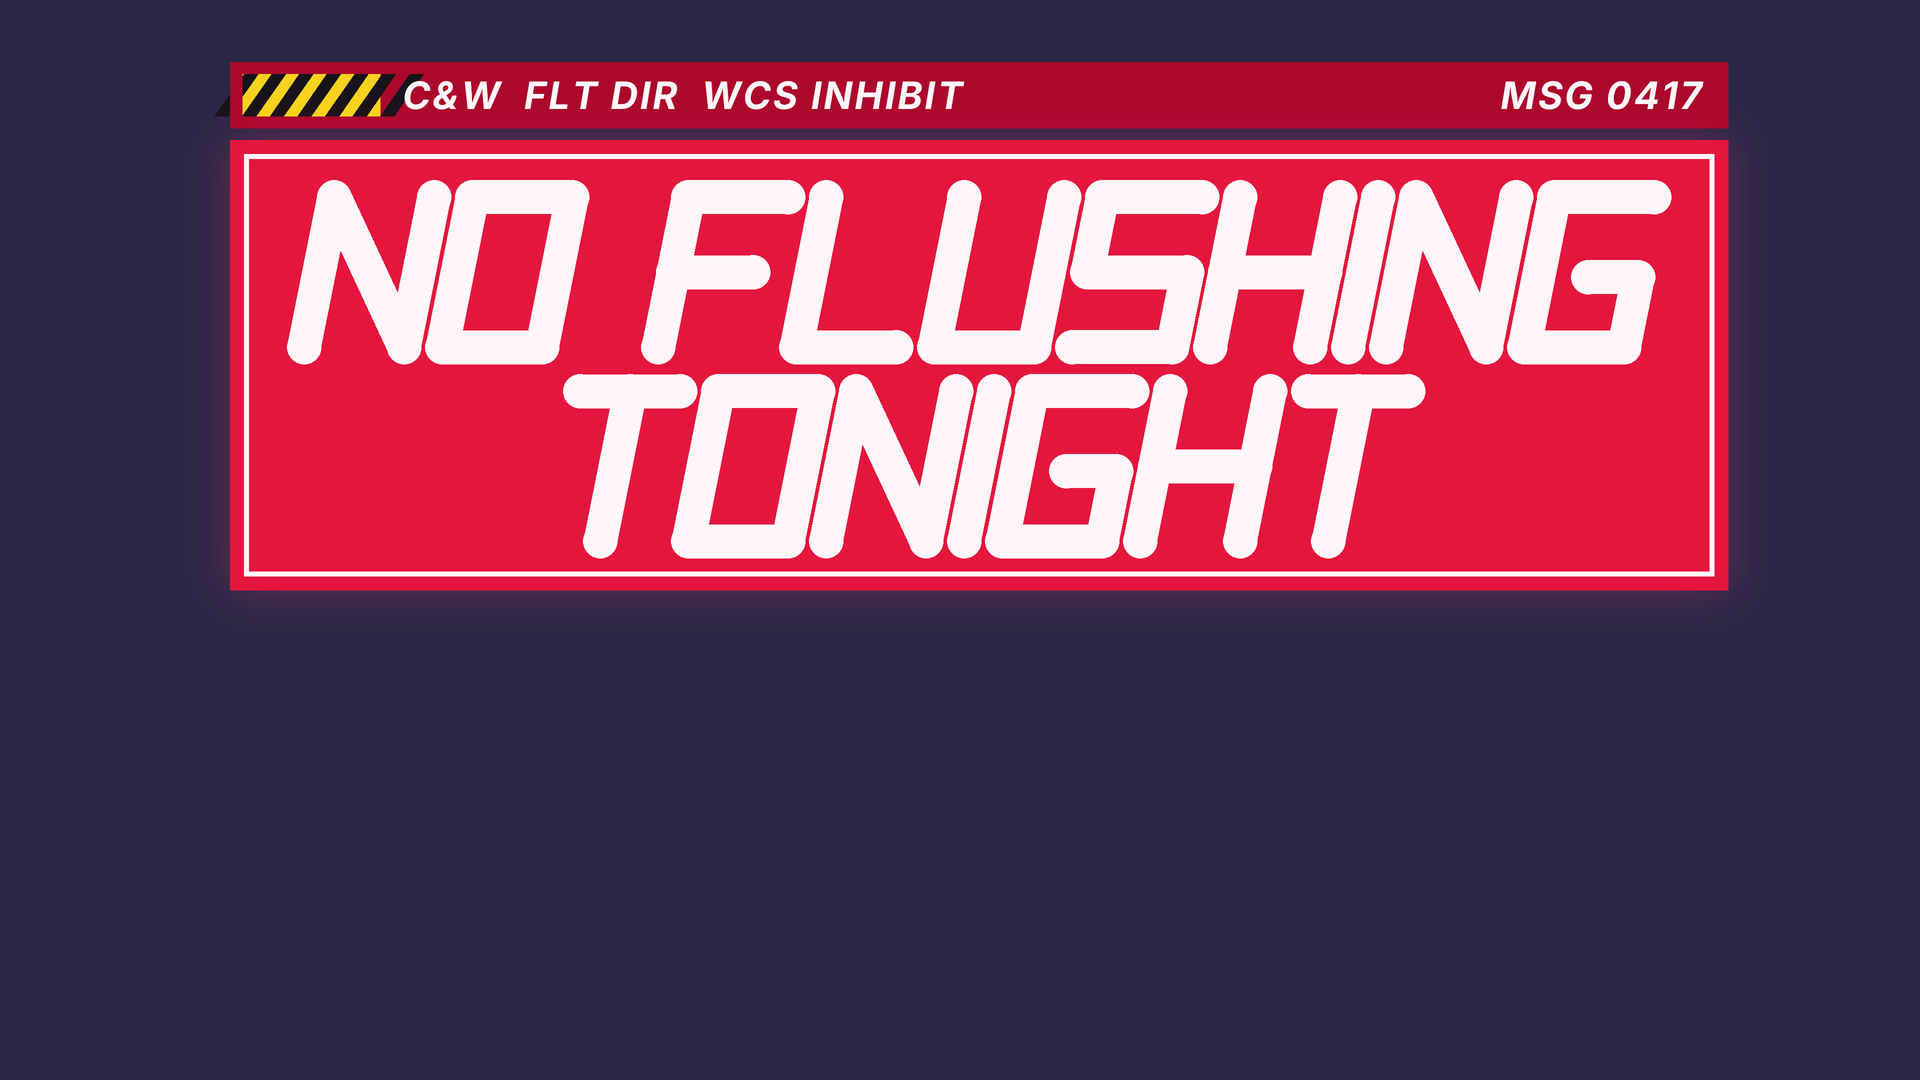
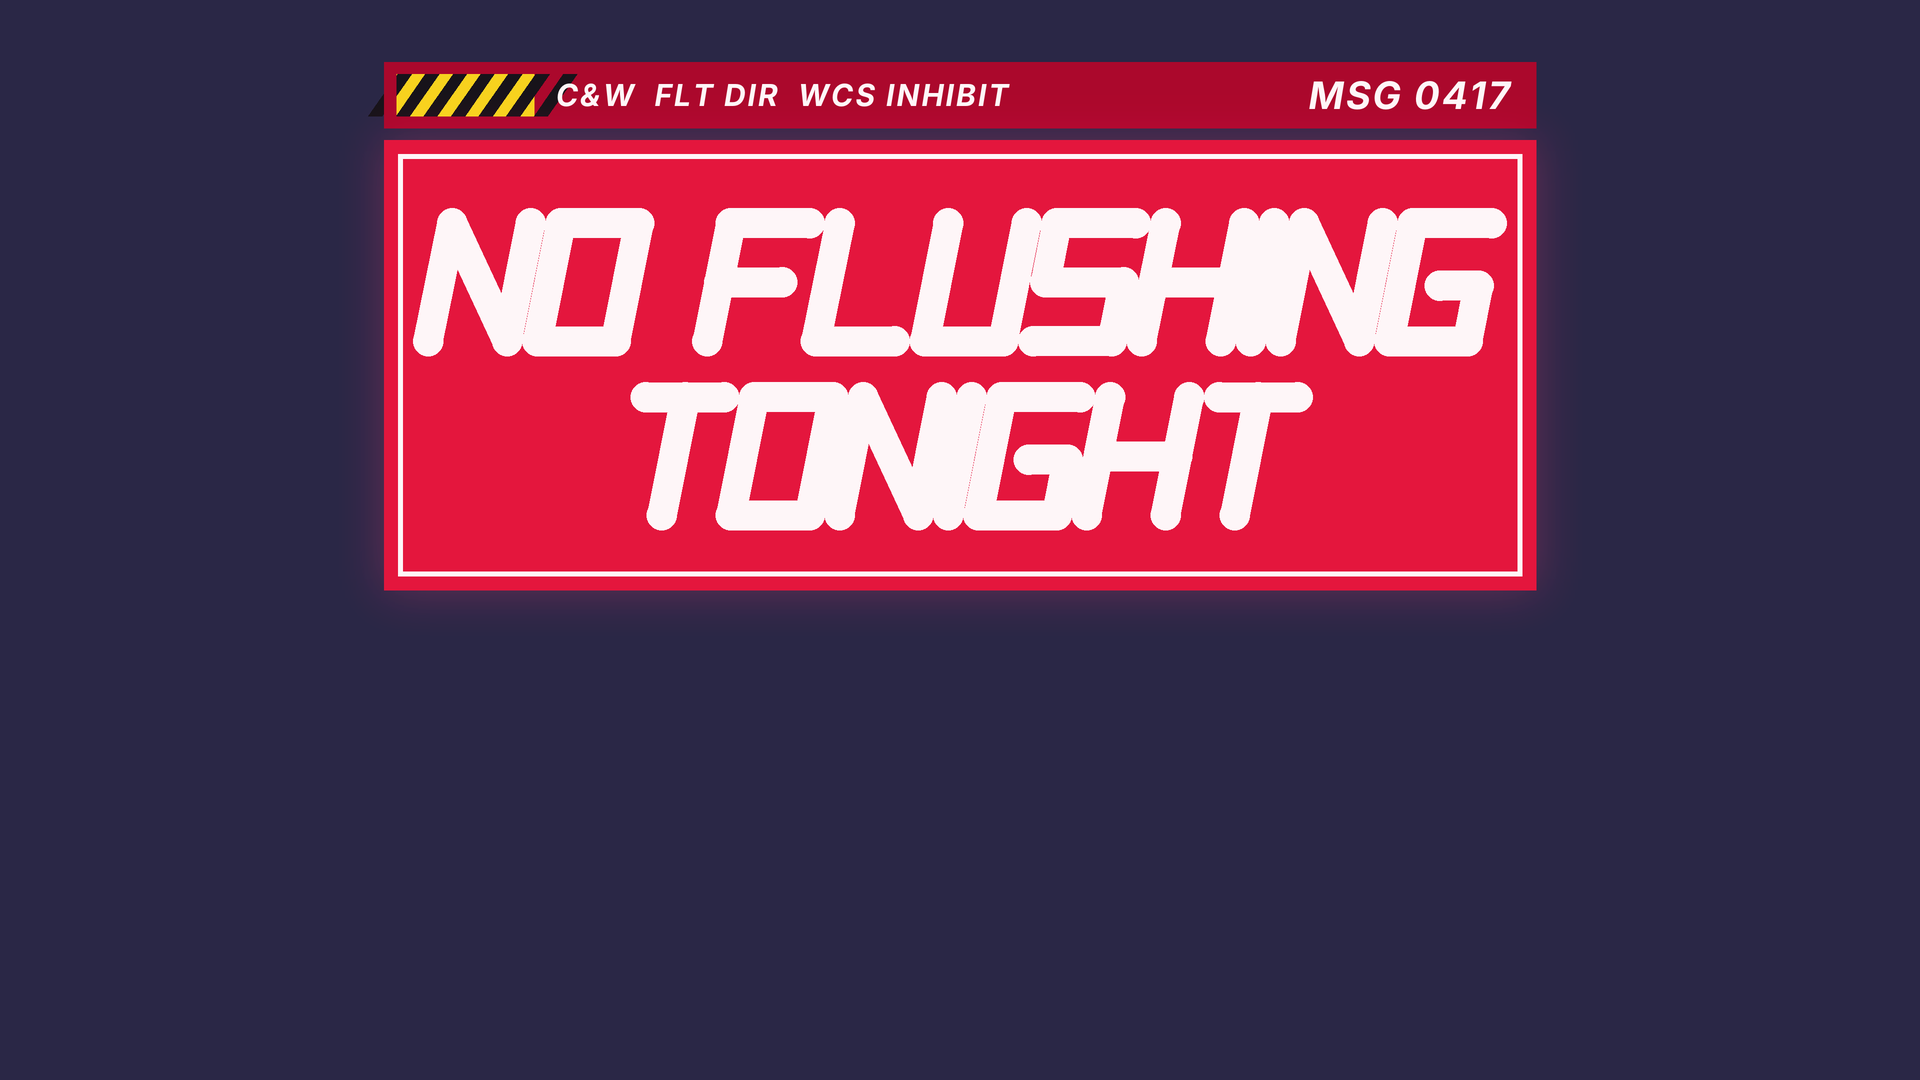
astro-flush-study: ship round 3 (camera fit tool, cloud shell, kit space light)
Claude-Session: https://claude.ai/code/session_01DrjR3HgxxDtMeg6KVkcCBa

Changed region(s): [[0.0938, 0.0306, 0.9062, 0.55]]

diff --git a/episodes/astro-flush-study/sets/ship.js b/episodes/astro-flush-study/sets/ship.js
@@ -37,7 +37,7 @@ export async function build(THREE, scene, film, ctx) {
       if (o.isDirectionalLight) { o.color.set('#ffffff'); o.intensity = 3.2; o.position.copy(ctx.B2T([.2, .5, .85]).multiplyScalar(60)); } });
   }
   const basic = (o, opt) => { if (o) o.traverse(m => { if (m.isMesh) m.material = new THREE.MeshBasicMaterial(Object.assign({ toneMapped: false, fog: false }, opt(m.material))); }); };
-  basic(N('sky_dome'), m => ({ map: m.map, side: THREE.BackSide }));
+  basic(N('sky_dome'), m => ({ map: m.map, side: THREE.DoubleSide }));
   basic(N('earth'), m => ({ map: m.map }));
   basic(N('earth_rim'), () => ({ color: '#bfeaff', transparent: true, opacity: .35, side: THREE.BackSide, depthWrite: false }));
   const ct = await new THREE.TextureLoader().loadAsync(DIR + 'cloud_tile_kit.png'); ct.wrapS = ct.wrapT = THREE.RepeatWrapping; ct.repeat.set(6, 3); ct.colorSpace = THREE.SRGBColorSpace;

diff --git a/episodes/astro-flush-study/sets/cabin/scripts/bl_cabin.py b/episodes/astro-flush-study/sets/cabin/scripts/bl_cabin.py
@@ -162,7 +162,7 @@ MON = dict(x=0., z=3.60, w=1.40, h=2.50)       # monitor outer frame (f330: 190 
 PICW, PICH = 1.26, 2.24                          # cabin_monitor_pic = 9:16 portrait
 HATCH = dict(x=1.95, z=1.68, w=.92, h=2.30, r=.42, t=.16)   # rounded-top hatch at the right edge of the back wall (f330 x 430-540 px)
 UP0 = RAIL_Z + .15
-panels('cabin_wall_upper', (CX1, WY, UP0), (-1, 0, 0), (0, 0, 1), CX1 - CX0, CTOP - UP0, [], pw=.85, ph=.62)
+panels('cabin_wall_upper', (CX1, WY, UP0), (-1, 0, 0), (0, 0, 1), CX1 - CX0, CTOP - UP0, [], pw=.85, ph=.62, g=.02)
 # quilted lower wall: diagonal diamond grid, each diamond padded (light centre, dark groove), a small button at the crossings
 QS = .19; bq, bbut = B(), B()
 qrows = int(QUILT_TOP / (QS / 2)) + 2; qcols = int((CX1 - CX0) / QS) + 2
@@ -185,7 +185,7 @@ box('cabin_rail_teal', (CX1 - CX0, .07, .14), ((CX0 + CX1) / 2, WY - .035, RAIL_
 box('cabin_rail_orange', (CX1 - CX0, .03, .022), ((CX0 + CX1) / 2, WY - .015, RAIL_Z + .135), mat('rail_orange', rough=.6), bev=0)
 # floor: light grey-beige rubber + regular dot grid (inventory 2 cm dots at 5 cm pitch, x 1.55)
 box('cabin_floor', (CX1 - CX0 + 1, WY + 7, .1), ((CX0 + CX1) / 2, WY - (WY + 7) / 2 + .0, -.05), mat('floor_rubber'), bev=0)
-dots('cabin_floor_dots', -2.7, 2.7, -2.4, WY, 0., .0775, .015, .004, mat('floor_dot'))
+dots('cabin_floor_dots', -3.0, 3.0, -2.6, WY, 0., .11, .03, .01, mat('floor_dot', rough=.7))
 # ceiling slopes at the top corners (A-shape seen at the top of f330) + 2 roof brace tubes from the upper corners toward the centre top
 bm = B()
 for s in (1, -1): abox(bm, 2.6, 7.5, .12, MT((s * 2.55, WY - 3.7, CTOP + .6), (0, s * 38, 0)), bev=0)
@@ -195,6 +195,9 @@ for s in (1, -1):
     atube(bm, [(s * 2.75, WY - .12, 4.55), (s * .7, WY - .12, 6.6)], .045, 12)
     for p in ((s * 2.75, WY - .06, 4.55),): abox(bm, .14, .1, .14, MT(p), bev=.015)
 obj('cabin_roof_braces', bm, mat('roof_brace', rough=.6), smooth=True)
+bm = B(); abox(bm, 8.4, 10.5, .2, MT((0, WY - 4.6, CTOP + 1.6)), bev=0)
+for s in (1, -1): abox(bm, .2, 10.5, CTOP + 1.8, MT((s * 3.45, WY - 4.6, (CTOP + 1.8) / 2)), bev=0)
+abox(bm, 8.4, .2, CTOP + 1.8, MT((0, WY - 9.8, (CTOP + 1.8) / 2)), bev=0); obj('cabin_shell', bm, mat('ceiling'))
 # wall monitor: dark frame, small camera on top centre, label plate under it, green LED bottom right, the picture plane fed by the stretch builder
 MY = WY - .045
 box('cabin_monitor_frame', (MON['w'], .09, MON['h']), (MON['x'], MY, MON['z']), mat('screen_frame', rough=.45), bev=.02)
@@ -226,11 +229,11 @@ def duffel(name, col, loc, L=.70, R=.23):
     return o
 duffel('cabin_bag_blue', 'bag_blue', (-1.43, WY - .22, 4.32)); duffel('cabin_bag_orange', 'bag_orange', (.88, WY - .24, 4.32)); duffel('cabin_bag_red', 'bag_red', (-2.35, WY - .22, 4.0))
 # galley table (left edge): black round top on one pole and disc foot, red bottle, yellow block, tray; grey box on a shelf; drawer block with 4 labels
-GX, GY = -1.6, .95
-bm = B(); acyl(bm, .45, .05, MT((0, 0, 1.24)), 32); acyl(bm, .035, 1.2, MT((0, 0, .62)), 12); acyl(bm, .26, .03, MT((0, 0, .015)), 24); obj('cabin_table', bm, mat('table_black', rough=.4), (GX, GY, 0), smooth=True)
-bm = B(); alathe(bm, [(.04, 0), (.045, .02), (.045, .16), (.02, .2), (.012, .25)], 12); obj('cabin_bottle', bm, mat('bottle_red', rough=.35), (GX + .25, GY - .12, 1.265), smooth=True)
-box('cabin_block', (.1, .08, .07), (GX + .05, GY - .2, 1.3), mat('block_yellow'), bev=.01)
-box('cabin_tray', (.3, .2, .02), (GX - .1, GY + .05, 1.275), mat('table_brown'), bev=.006)
+GX, GY = -1.75, .55; GT = 1.15
+bm = B(); acyl(bm, .45, .05, MT((0, 0, GT)), 32); acyl(bm, .035, GT - .04, MT((0, 0, GT / 2)), 12); acyl(bm, .26, .03, MT((0, 0, .015)), 24); obj('cabin_table', bm, mat('table_black', rough=.4), (GX, GY, 0), smooth=True)
+bm = B(); alathe(bm, [(.04, 0), (.045, .02), (.045, .16), (.02, .2), (.012, .25)], 12); obj('cabin_bottle', bm, mat('bottle_red', rough=.35), (GX + .25, GY - .12, GT + .025), smooth=True)
+box('cabin_block', (.1, .08, .07), (GX + .05, GY - .2, GT + .06), mat('block_yellow'), bev=.01)
+box('cabin_tray', (.3, .2, .02), (GX - .1, GY + .05, GT + .035), mat('table_brown'), bev=.006)
 box('cabin_shelf', (.8, .45, .05), (GX - .45, WY - .23, 1.6), mat('table_brown'), bev=.01)
 box('cabin_oven', (.55, .4, .35), (GX - .5, WY - .23, 1.8), mat('oven_grey', rough=.5), bev=.02)
 box('cabin_oven_door', (.36, .02, .22), (GX - .54, WY - .44, 1.8), mat('table_black', rough=.3), bev=.006)
@@ -289,7 +292,10 @@ def bag_parts(col, flat=1., open_=False):
     body, collar, head, strap, zipl = B(), B(), B(), B(), B()
     R = BAGW / 2; prof = [(R * .62, -BAGH), (R * .9, -BAGH + .12), (R, -BAGH + .45), (R * .98, -.55), (R * .9, -.32)]
     alathe(body, prof, 24, MT((0, -.2 * flat, 0)), ey=.42 * flat)
+    for v in body.verts:      # broad soft folds: a slow wave round the bag that drifts with height (no texture, geometry only)
+        k = 1 + .07 * math.sin(3 * math.atan2(v.co.x, v.co.y + .2 * flat) + 3.5 * v.co.z) + .04 * math.sin(5.5 * v.co.z); v.co.x *= k; v.co.y = -.2 * flat + (v.co.y + .2 * flat) * k
     alathe(collar, [(R * .9, -.33), (R * .96, -.29), (R * .96, -.2), (R * .88, -.16)], 24, MT((0, -.2 * flat, 0)), ey=.45 * flat)
+    alathe(zipl, [(R * .78, -.205), (R * .78, -.2)], 24, MT((0, -.2 * flat, 0)), ey=.38 * flat)   # the collar opening round the head: dark ellipse
     abox(head, .5, .1, .34, MT((0, -.07, -.05)), bev=.04)
     abox(strap, .52, .11, .04, MT((0, -.07, -.06)), bev=.005)
     for s in (1, -1): acyl(strap, .012, .12, MT((s * .2, -.03, .1)), 8)
@@ -297,7 +303,7 @@ def bag_parts(col, flat=1., open_=False):
     return body, collar, head, strap, zipl
 for n, (x, col) in BAGS.items():
     b, c_, h, s, z = bag_parts(col)
-    multi(n, [(b, mat(col, rough=.75)), (c_, mat(col + '_collar', col=PAL['bag_green_lining'] if col == 'bag_green' else PAL['headrest'], rough=.8)), (h, mat('headrest', rough=.8)),
+    multi(n, [(b, mat(col, rough=.75, emit=PAL['bag_green_rim'], es=.12) if col == 'bag_green' else mat(col, rough=.75)), (c_, mat(col + '_collar', col=PAL['bag_green_lining'] if col == 'bag_green' else PAL['headrest'], rough=.8)), (h, mat('headrest', rough=.8)),
               (s, mat('strap_black')), (z, mat('strap_black'))], (x, BY - .06, RZ + .02), smooth=True, mover={'sway_deg': 2.5})
 b, c_, h, s, z = bag_parts('bag_green', flat=.55, open_=True)
 fl = B(); R = BAGW / 2
@@ -383,10 +389,10 @@ def light(name, loc, col, watts, radius=.1, kind='POINT', aim=None, spot=None):
     return o
 # day: one hard key from the front, high, slightly right of the camera (shadows down-left on the quilt and the floor); a faint warm bounce
 light('key_day', (6.0, -6.0, 8.0), (1., .97, .92), 4.2, .6, 'SUN', aim=(0, 1.5, 0))
-light('fill_day', (0, -4.0, 3.0), (1., .9, .82), 120, 3., 'AREA', aim=(0, 1.5, 1.8))
+light('fill_day', (3.0, -3.0, 4.5), (1., .85, .7), 0, 2., 'AREA', aim=(0, 1.5, 1.2))
 # night: warm reading-light pools on the wall panels (one per panel column), cool glow under the skylights, front fill on the bags, end wall wash, floor light, toilet room lamp
 for k in range(6):
-    x = XL + .5 + k * .93; light('pool_%d' % (k + 1), (x, BY - .5, 3.7), (1., .62, .4), 0, .05, 'SPOT', aim=(x, BY, 2.95), spot=40)
+    x = XL + .5 + k * .93; light('pool_%d' % (k + 1), (x, BY - .5, 3.7), (1., .45, .15), 0, .05, 'SPOT', aim=(x, BY, 2.95), spot=40)
 for k, x in enumerate(SKY): light('sky_glow_%d' % (k + 1), (x, BY - 1.3, 4.2), (.25, .35, 1.), 0, 1., 'AREA', aim=(x, BY - 1.3, 0))
 light('bag_fill', (BX - .2, -3.0, 1.9), (.45, .55, 1.), 0, 2.5, 'AREA', aim=(BX - .2, BY, 1.5))
 light('end_wash', (EX - 2.6, -2.6, 2.6), (.2, .3, 1.), 0, 2., 'AREA', aim=(EX, -.6, 1.6))
@@ -396,7 +402,7 @@ w = bpy.data.worlds.new('cabin_world'); w.use_nodes = True; SC.world = w
 
 # ================================================================== META, RENDER SETTINGS, SAVE, GLB
 ANCH.update({'cabin_wall_centre': [0, WY, 0], 'monitor': [MON['x'], PIC_Y, MON['z'] + .02], 'head_sign': [1.58, WY, 3.35], 'hatch': [HATCH['x'], WY - .1, HATCH['z']],
-             'galley_table': [GX, GY, 1.24], 'commander_s4': [-1.05, .7, .75], 'newguy_s4': [0, .7, .5], 'navigator_s4': [1.22, .7, .85], 'newguy_s4_f300': [0, .1, .3],
+             'galley_table': [GX, GY, GT], 'commander_s4': [-1.05, .7, .75], 'newguy_s4': [0, .7, .5], 'navigator_s4': [1.22, .7, .85], 'newguy_s4_f300': [0, .1, .3],
              'bay_wall_centre': [BX, BY, 0], 'bag_navigator': [BAGS['bag_navigator'][0], BY - .06, RZ + .02], 'bag_commander': [BAGS['bag_commander'][0], BY - .06, RZ + .02],
              'bag_new_guy': [BAGS['bag_new_guy'][0], BY - .06, RZ + .02], 'bay_door': [EX, DOOR['y'], 0], 'bay_floor_light': [EX - .55, DOOR['y'] + .1, 0],
              'newguy_s5_bag': [BAGS['bag_new_guy'][0], BY - .32, .78], 'newguy_s5_door': [EX - 1.0, -.35, .55], 'toilet_room_beyond': [EX + 1.5, DOOR['y'], 0]})
@@ -425,7 +431,7 @@ META = {'place': 'cabin', 'units': 'Blender metres, Z up', 'rooms': {'D_cabin_da
 json.dump(META, open(os.path.join(OUT, 'cabin_meta.json'), 'w'), indent=1)
 SC.render.engine = 'CYCLES'; SC.cycles.samples = 16; SC.cycles.use_denoising = True; SC.view_settings.view_transform = 'Standard'; SC.view_settings.look = 'None'
 SC.render.resolution_x, SC.render.resolution_y = 540, 960; SC.cycles.max_bounces = 6
-for n in ('cabin_ceiling',): bpy.data.objects[n].visible_shadow = False
+for n in ('cabin_ceiling', 'cabin_shell'): bpy.data.objects[n].visible_shadow = False
 tris = sum(len(o.data.polygons) for o in SET.objects if o.type == 'MESH')
 for o in bpy.data.objects: o.select_set(False)
 for o in SET.objects: o.select_set(True)

diff --git a/episodes/astro-flush-study/sets/cabin/scripts/cabin_api.py b/episodes/astro-flush-study/sets/cabin/scripts/cabin_api.py
@@ -13,9 +13,9 @@ def _vis(n, on):
     if o: o.hide_render = o.hide_viewport = not on
 def _lerp(a, b, u): return [x + (y - x) * u for x, y in zip(a, b)]
 LIGHTS = {  # watts per light (sun: W/m2) and the world (colour, strength) for each kind
-    'day':   {'key_day': 4.0, 'world': ((.09, .06, .045), .05), 'bounces': 1},
-    'night': {'pool_1': 450, 'pool_2': 450, 'pool_3': 450, 'pool_4': 450, 'pool_5': 450, 'pool_6': 450, 'sky_glow_1': 25, 'sky_glow_2': 25, 'bag_fill': 70, 'end_wash': 110,
-              'floor_light_glow': 6, 'toilet_room_lamp': 120, 'world': ((.005, .008, .16), .5), 'bounces': 4},
+    'day':   {'key_day': 4.6, 'fill_day': 25, 'world': ((.09, .05, .03), .03), 'bounces': 0, 'head_glow': 0},
+    'night': {'pool_1': 1500, 'pool_2': 1500, 'pool_3': 1500, 'pool_4': 1500, 'pool_5': 1500, 'pool_6': 1500, 'sky_glow_1': 40, 'sky_glow_2': 40, 'bag_fill': 160, 'end_wash': 220,
+              'floor_light_glow': 6, 'toilet_room_lamp': 120, 'world': ((.005, .008, .16), .8), 'bounces': 4, 'head_glow': .9},
 }
 def set_light(scene, kind):
     L = LIGHTS[kind]
@@ -23,6 +23,8 @@ def set_light(scene, kind):
         if o.type != 'LIGHT': continue
         o.data.energy = L.get(o.name, 0); o.hide_render = o.hide_viewport = o.name not in L; o.visible_glossy = False
     scene.cycles.diffuse_bounces = L['bounces']   # day: 1 bounce keeps the hard shadows near black (shadow/lit 0.13 on the quilt, LOOK_INVENTORY D2)
+    m = bpy.data.materials.get('standin_head')     # night: the faces stay full-bright as his (a small self-light on the stand-in heads)
+    if m: b = m.node_tree.nodes['Principled BSDF']; b.inputs['Emission Color'].default_value = (1, 1, 1, 1); b.inputs['Emission Strength'].default_value = L['head_glow']
     bg = scene.world.node_tree.nodes['Background']; bg.inputs[0].default_value = (*L['world'][0], 1); bg.inputs[1].default_value = L['world'][1]
 def set_monitor(png):
     m = bpy.data.materials.get('monitor_placeholder')

diff --git a/episodes/astro-flush-study/sets/mc/scripts/tex_mc.py b/episodes/astro-flush-study/sets/mc/scripts/tex_mc.py
@@ -162,15 +162,15 @@ def hazard(d, x0, y0, x1, y1, n=5):
 def make_noflush():
     im = canvas('#2a2746'); d = ImageDraw.Draw(im); header_flush(d, tick='#8f7fb0', txt='#55507a', rule='#4a4670')
     d.rectangle((0, 0, W * SS, 130 * SS), fill='#2a2746')
-    x0, x1 = .12 * W, .90 * W
+    x0, x1 = .20 * W, .80 * W      # mc stretch round 2: his red box is about 60 % of the screen width, dark screen around it
     d.rectangle((x0 * SS, 62 * SS, x1 * SS, 128 * SS), fill='#ab082c'); hazard(d, x0 + 12, 74, x0 + 150, 116)
     d.rectangle((x0 * SS, 62 * SS, (x0 + 12) * SS, 128 * SS), fill='#ab082c')
-    text(d, (x0 + 172, 95), 'C&W  FLT DIR  WCS INHIBIT', 38, '#fef6f8', 'lm', spacing=2); text(d, (x1 - 24, 95), 'MSG 0417', 38, '#fef6f8', 'rm', spacing=2)
+    text(d, (x0 + 172, 95), 'C&W  FLT DIR  WCS INHIBIT', 30, '#fef6f8', 'lm', spacing=2); text(d, (x1 - 24, 95), 'MSG 0417', 38, '#fef6f8', 'rm', spacing=2)
     lay = black(); dl = ImageDraw.Draw(lay); dl.rectangle((x0 * SS, 140 * SS, x1 * SS, 590 * SS), fill='#5a0818'); im = add_glow(im, lay, 22, .8); d = ImageDraw.Draw(im)
     d.rectangle((x0 * SS, 140 * SS, x1 * SS, 590 * SS), fill='#e4163d')
     d.rectangle(((x0 + 14) * SS, 154 * SS, (x1 - 14) * SS, 576 * SS), outline='#fef6f8', width=5 * SS)
     cx = (x0 + x1) / 2
-    stroke_text(d, 'NO FLUSHING', cx, 272, 150, '#fef6f8', 34, shear=.2, gap=38); stroke_text(d, 'TONIGHT', cx, 466, 150, '#fef6f8', 34, shear=.2, gap=38)
+    stroke_text(d, 'NO FLUSHING', cx, 282, 118, '#fef6f8', 30, shear=.2, gap=30); stroke_text(d, 'TONIGHT', cx, 456, 118, '#fef6f8', 30, shear=.2, gap=30)
     done(im, 'mc_screen_noflush.png')
 def graph_pts():
     """plan-vs-actual, screen fractions (his f806 / f860): the red line follows the plan to K, then leaves it and bends down to the arrow head."""

diff --git a/episodes/astro-flush-study/sets/mc/scripts/bl_mc.py b/episodes/astro-flush-study/sets/mc/scripts/bl_mc.py
@@ -153,7 +153,7 @@ def pedestal(tag, x, y, top=True):
     cyl('pedestal_pole_' + tag, .035, PT - .2, (x, y, (PT - .2) / 2 + .02), 'pedestal_pole', seg=12)
     if top: box('button_box_' + tag, (.36, .3, .22), (x, y, PT - .11), 'button_box', bev=.025)
     ANCH['pedestal_' + tag] = [x, y, PT]
-GX, GY, NX, NY, PT = .49, -13.0, 1.44, -13.3, .98      # PT = top of the button boxes
+GX, GY, NX, NY, PT = .49, -13.0, 1.19, -13.3, .98      # mc stretch round 2: NO GO 0.25 m toward the director (was 1.44) so his fist lands on the button      # PT = top of the button boxes
 pedestal('go', GX, GY); pedestal('nogo', NX, NY, top=False)
 bm = B(); alathe(bm, [(.09, 0), (.09, .02), (.075, .06), (.04, .085), (0, .09)], 20); obj('mc_go_button', bm, mat('go_dome', emit=PAL['go_dome'], es=1.5, rough=.3), (GX, GY - .02, PT), smooth=True, mover=dict(kind='press', pressed=dict(loc=[GX, GY - .02, PT - .025], rot=[0, 0, 0]), f=[224, 227]))
 # NO GO: the whole box pops up onto the pedestal at f176-180 (scale 0 -> 1 from its base), cover flips up (f260), red dome presses (f263-264)

diff --git a/episodes/astro-flush-study/sets/ship/STATE.md b/episodes/astro-flush-study/sets/ship/STATE.md
@@ -52,3 +52,32 @@ One ship model: body x 0..21.5, nose cockpit x 21.5..26.4 with real interior; ra
 7. f880: the porthole frame is too big in frame (the camera is now too close) and too dark grey. The bolts read as dark posts. The room shows the stand-in in front of the inner porthole.
 8. f790: closer to his, but the panel still fills the top half and the radio sits low-left. The cube lever block is too big.
 9. f740 is unchanged (the pencil mover is still in view).
+
+## Round 3 (cameras by fit, cloud shell, kit space light)
+- `scripts/fit_cams.py`: it reads the points in params "fits" (pixel on his frame + model point), solves by least squares and writes the cams with `fit_rms_px`. With the lens free the fits run off to very wide, close cameras, so each lens is fixed (f40 45, f70 45, f600 50, f880 40, f990 45, f790 55).
+- Fit rms: f40 14 px, f70 11 px, f880 23 px, f990 25 px, f790 42 px. f600 fit 1 px on 4 lamp points, but they are coplanar, so the solve is not reliable; f600 stays by eye. f680 is not fitted (by eye).
+- Model changed from what the points measured:
+  - Windows: 10 a side, opening .5 x .76 with a .12 frame, 1.45 m apart, a larger gap after the aft porthole. `porthole_b` is now window 2 (x 4.75), so the letters are not above it.
+  - LODESTAR is on the side band above the windows (4 m word).
+  - Arrays stand above and below the truss.
+  - Fans are 8.4 m across on side booms.
+  - The navigator card is moved forward to x 24.2.
+- Earth: a procedural cloud shell (`earth_clouds`, noise with warp, alpha, pale-blue shade); base darkened (value .5). The kit uses `out/cloud_tile_kit.png` (seamless 2048, repeated 6x3).
+- Flame: 5 layers, soft at the edges and fading along the length (`flame_mat`: layer weight x length gradient).
+- ship.js space light:
+  - hides the kit gradient sky (baseLight), no fog, black background, the kit hemisphere fill dimmed to navy, the kit sun put at the Blender key;
+  - sky, Earth, rim, clouds, flame and glitter use unlit basic materials (toneMapped false);
+  - the additive flame blending is removed.
+- Proof: `references/look_match/astro_flush/work/proof/ship/kit_vs_blender.jpg` (kit f0, kit f12 with the flame on | Blender f990, f110).
+
+| frame | mean L | p1 | p99 | mean sat |
+|---|---|---|---|---|
+| f40 | 0.250 / 0.271 | 0.000 / 0.004 | 1.000 / 0.992 | 0.583 / 0.688 |
+| f70 | 0.317 / 0.394 | 0.007 / 0.005 | 1.000 / 0.997 | 0.630 / 0.590 |
+| f110 | 0.105 / 0.132 | 0.032 / 0.005 | 1.000 / 0.996 | 0.614 / 0.782 |
+| f600 | 0.212 / 0.212 | 0.008 / 0.013 | 0.905 / 0.934 | 0.357 / 0.393 |
+| f680 | 0.204 / 0.199 | 0.036 / 0.004 | 1.000 / 0.861 | 0.276 / 0.363 |
+| f740 | 0.102 / 0.078 | 0.001 / 0.004 | 1.000 / 0.989 | 0.696 / 0.804 |
+| f790 | 0.182 / 0.139 | 0.005 / 0.000 | 1.000 / 0.964 | 0.693 / 0.546 |
+| f880 | 0.211 / 0.245 | 0.000 / 0.000 | 0.785 / 0.890 | 0.349 / 0.362 |
+| f990 | 0.117 / 0.064 | 0.049 / 0.005 | 0.997 / 0.772 | 0.521 / 0.881 |
